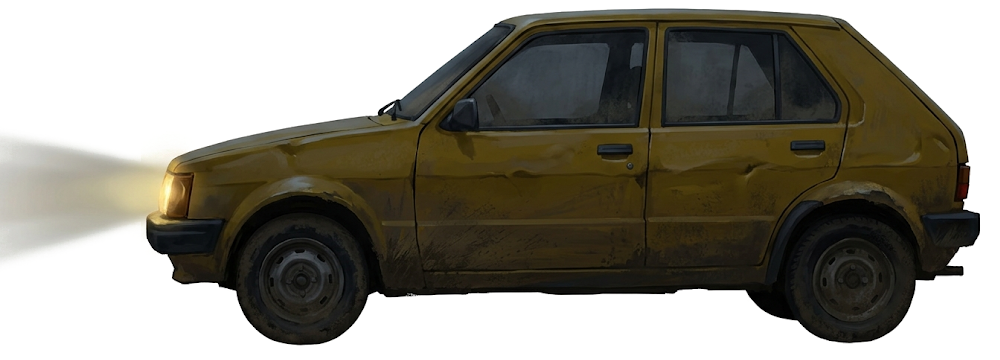
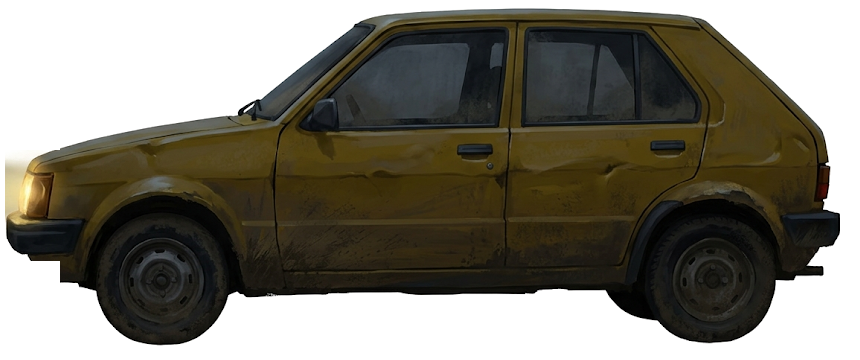
ig: 허수아비 — 박힌 빛줄기 지우고 부드러운 헤드라이트, 앞 옥수숫대가 차를 통째로 가리게
Claude-Session: https://claude.ai/code/session_01RCovqCTjag3WJkZFny7UQu

diff --git a/tools/ig/templates/reel-scare.html b/tools/ig/templates/reel-scare.html
@@ -40,8 +40,9 @@ html,body{width:1080px;height:1920px;background:#000;overflow:hidden;font-family
 .bgl{position:absolute;inset:0;background:url(../assets/reel-scare-road-bg.jpg) center/cover;transform-origin:83% 34%;animation:zoom3 10.5s linear forwards}
 @keyframes zoom3{from{transform:scale(1)}to{transform:scale(1.08)}}
 .fgl{position:absolute;inset:0;background:url(../assets/reel-scare-road-fg.png) center/cover;transform-origin:83% 34%;animation:zoom3 10.5s linear forwards;z-index:4}
-.car{position:absolute;left:0;top:0;width:500px;height:180px;transform-origin:50% 100%;z-index:3;filter:brightness(.62) saturate(.9)}
+.car{position:absolute;left:0;top:0;width:430px;height:180px;transform-origin:50% 100%;z-index:3;filter:brightness(.62) saturate(.9)}
 .bob{position:absolute;inset:0;background:url(../assets/reel-scare-yellowcar.png) center/contain no-repeat;animation:bump .26s ease-in-out infinite alternate}
+.beam{position:absolute;right:calc(100% - 22px);top:62px;width:560px;height:150px;background:radial-gradient(farthest-side at 100% 50%,rgba(255,236,180,.55),rgba(255,230,170,.18) 45%,transparent 100%);-webkit-mask:linear-gradient(90deg,transparent,#000 70%);mix-blend-mode:screen;filter:blur(4px)}
 @keyframes bump{from{transform:translateY(0)}to{transform:translateY(-3px) rotate(-.5deg)}}
 .dust{position:absolute;width:260px;height:180px;border-radius:50%;background:radial-gradient(closest-side,rgba(150,130,105,.35),transparent 100%);z-index:2;opacity:0;pointer-events:none}
 .flick{position:absolute;inset:0;background:radial-gradient(closest-side,rgba(255,232,170,.4),transparent 100%);width:420px;height:260px;mix-blend-mode:screen;z-index:3;opacity:0}
@@ -49,10 +50,10 @@ html,body{width:1080px;height:1920px;background:#000;overflow:hidden;font-family
 @keyframes shk{0%{translate:0 0}25%{translate:-14px 8px}50%{translate:12px -10px}75%{translate:-8px -6px}}
 .crashfl{position:absolute;inset:0;background:#fff4dc;opacity:0;z-index:21}
 @keyframes fp{0%{opacity:0}15%{opacity:1}100%{opacity:0}}@keyframes fall{0%{opacity:0;transform:translate(0,0) rotate(0)}8%{opacity:1}100%{opacity:.9;transform:translate(120px,2000px) rotate(540deg)}}</style></head><body><div class="stage">
-<div class="world" id="world"><div class="bgl"></div><div class="car" id="car"><div class="bob" id="bob"></div></div><div class="flick" id="fl"></div><div class="fgl"></div></div><div class="crashfl" id="cf"></div><script>
+<div class="world" id="world"><div class="bgl"></div><div class="car" id="car"><div class="beam" id="beam"></div><div class="bob" id="bob"></div></div><div class="fgl"></div></div><div class="crashfl" id="cf"></div><script>
 const car=document.getElementById('car'),bob=document.getElementById('bob');
 const road=x=>1452-(x-120)*(140/880);                       // 흙길 가운데 선(왼쪽 아래 1452 → 오른쪽 위)
-const at=(x,s,r)=>`translate(${x-250}px,${road(x)-140+18*s}px) scale(${s}) rotate(${r||0}deg)`;
+const at=(x,s,r)=>`translate(${x-215}px,${road(x)-140+18*s}px) scale(${s}) rotate(${r||0}deg)`;
 car.animate([{transform:at(860,.42)},{transform:at(560,.62),offset:.55},{transform:at(330,.8)}],{duration:4350,easing:'linear',fill:'forwards'});
 let t0=performance.now();const W=document.getElementById('world');
 const dust=()=>{const r=car.getBoundingClientRect();const d=document.createElement('div');d.className='dust';d.style.left=(r.right-150)+'px';d.style.top=(r.bottom-150)+'px';W.appendChild(d);
@@ -62,8 +63,7 @@ setTimeout(()=>{car.getAnimations().forEach(a=>a.pause());car.animate([{transfor
 setTimeout(()=>{clearInterval(dt);bob.style.animation='none';car.getAnimations().forEach(a=>a.pause());car.style.transform=at(250,.84,11);
  document.querySelector('.stage').classList.add('shk');const f=document.getElementById('cf');f.style.opacity=.85;f.style.transition='opacity .5s';requestAnimationFrame(()=>requestAnimationFrame(()=>f.style.opacity=0));
  for(let k=0;k<6;k++)setTimeout(dust,k*120);setInterval(dust,700);
- const r=car.getBoundingClientRect(),fl=document.getElementById('fl');fl.style.left=(r.left-300)+'px';fl.style.top=(r.top)+'px';
- [[0,1],[300,.1],[360,1],[800,0],[860,.8],[1500,.1],[1560,.9]].forEach(([t,o])=>setInterval(()=>{},1e9)||setTimeout(()=>fl.style.opacity=o,t));
+ const bm=document.getElementById('beam');[[0,1],[300,.1],[360,1],[800,0],[860,.8],[1500,.1],[1560,.9],[2400,0],[2460,1]].forEach(([t,o])=>setTimeout(()=>bm.style.opacity=o,t));
 },4700);
 </script><div class="grain"></div><div class="flick"></div>
 <div class="hook pale"><div class="a">한밤의 시골길,</div><div class="b acc">옥수수밭만 끝없이</div></div>

diff --git a/tools/ig/drawings/south_reels.py b/tools/ig/drawings/south_reels.py
@@ -33,8 +33,9 @@ FX = {
 .bgl{position:absolute;inset:0;background:url(../assets/reel-scare-road-bg.jpg) center/cover;transform-origin:83% 34%;animation:zoom3 10.5s linear forwards}
 @keyframes zoom3{from{transform:scale(1)}to{transform:scale(1.08)}}
 .fgl{position:absolute;inset:0;background:url(../assets/reel-scare-road-fg.png) center/cover;transform-origin:83% 34%;animation:zoom3 10.5s linear forwards;z-index:4}
-.car{position:absolute;left:0;top:0;width:500px;height:180px;transform-origin:50% 100%;z-index:3;filter:brightness(.62) saturate(.9)}
+.car{position:absolute;left:0;top:0;width:430px;height:180px;transform-origin:50% 100%;z-index:3;filter:brightness(.62) saturate(.9)}
 .bob{position:absolute;inset:0;background:url(../assets/reel-scare-yellowcar.png) center/contain no-repeat;animation:bump .26s ease-in-out infinite alternate}
+.beam{position:absolute;right:calc(100% - 22px);top:62px;width:560px;height:150px;background:radial-gradient(farthest-side at 100% 50%,rgba(255,236,180,.55),rgba(255,230,170,.18) 45%,transparent 100%);-webkit-mask:linear-gradient(90deg,transparent,#000 70%);mix-blend-mode:screen;filter:blur(4px)}
 @keyframes bump{from{transform:translateY(0)}to{transform:translateY(-3px) rotate(-.5deg)}}
 .dust{position:absolute;width:260px;height:180px;border-radius:50%;background:radial-gradient(closest-side,rgba(150,130,105,.35),transparent 100%);z-index:2;opacity:0;pointer-events:none}
 .flick{position:absolute;inset:0;background:radial-gradient(closest-side,rgba(255,232,170,.4),transparent 100%);width:420px;height:260px;mix-blend-mode:screen;z-index:3;opacity:0}
@@ -66,11 +67,11 @@ FX = {
 }
 LAYER = {"bokdo": '<div class="cam"><div class="scene"></div><div class="el l"></div><div class="el r"></div></div><div class="lamp"></div>',
          "sagwi": '<div class="scene"></div><div class="moon"></div>',
-         "scare": '<div class="world" id="world"><div class="bgl"></div><div class="car" id="car"><div class="bob" id="bob"></div></div><div class="flick" id="fl"></div><div class="fgl"></div></div><div class="crashfl" id="cf"></div>'
+         "scare": '<div class="world" id="world"><div class="bgl"></div><div class="car" id="car"><div class="beam" id="beam"></div><div class="bob" id="bob"></div></div><div class="fgl"></div></div><div class="crashfl" id="cf"></div>'
                   + """<script>
 const car=document.getElementById('car'),bob=document.getElementById('bob');
 const road=x=>1452-(x-120)*(140/880);                       // 흙길 가운데 선(왼쪽 아래 1452 → 오른쪽 위)
-const at=(x,s,r)=>`translate(${x-250}px,${road(x)-140+18*s}px) scale(${s}) rotate(${r||0}deg)`;
+const at=(x,s,r)=>`translate(${x-215}px,${road(x)-140+18*s}px) scale(${s}) rotate(${r||0}deg)`;
 car.animate([{transform:at(860,.42)},{transform:at(560,.62),offset:.55},{transform:at(330,.8)}],{duration:4350,easing:'linear',fill:'forwards'});
 let t0=performance.now();const W=document.getElementById('world');
 const dust=()=>{const r=car.getBoundingClientRect();const d=document.createElement('div');d.className='dust';d.style.left=(r.right-150)+'px';d.style.top=(r.bottom-150)+'px';W.appendChild(d);
@@ -80,8 +81,7 @@ setTimeout(()=>{car.getAnimations().forEach(a=>a.pause());car.animate([{transfor
 setTimeout(()=>{clearInterval(dt);bob.style.animation='none';car.getAnimations().forEach(a=>a.pause());car.style.transform=at(250,.84,11);
  document.querySelector('.stage').classList.add('shk');const f=document.getElementById('cf');f.style.opacity=.85;f.style.transition='opacity .5s';requestAnimationFrame(()=>requestAnimationFrame(()=>f.style.opacity=0));
  for(let k=0;k<6;k++)setTimeout(dust,k*120);setInterval(dust,700);
- const r=car.getBoundingClientRect(),fl=document.getElementById('fl');fl.style.left=(r.left-300)+'px';fl.style.top=(r.top)+'px';
- [[0,1],[300,.1],[360,1],[800,0],[860,.8],[1500,.1],[1560,.9]].forEach(([t,o])=>setInterval(()=>{},1e9)||setTimeout(()=>fl.style.opacity=o,t));
+ const bm=document.getElementById('beam');[[0,1],[300,.1],[360,1],[800,0],[860,.8],[1500,.1],[1560,.9],[2400,0],[2460,1]].forEach(([t,o])=>setTimeout(()=>bm.style.opacity=o,t));
 },4700);
 </script>""",
          "kono": '<div class="scene"></div><div class="neon"></div>',
